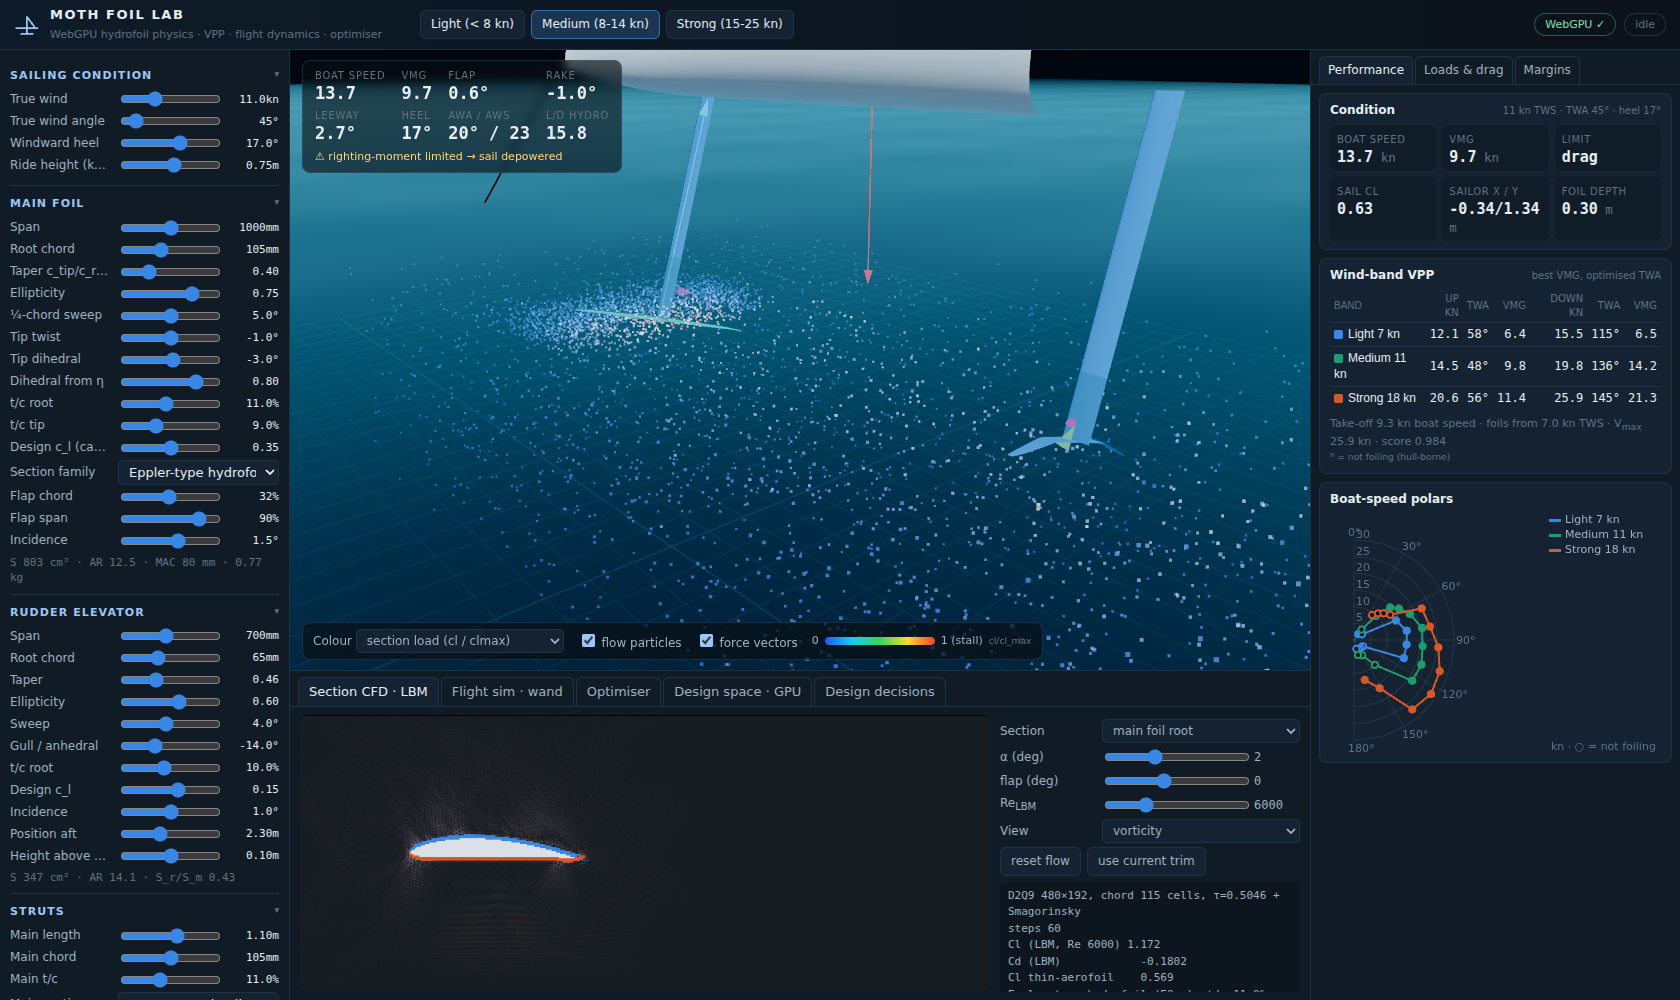
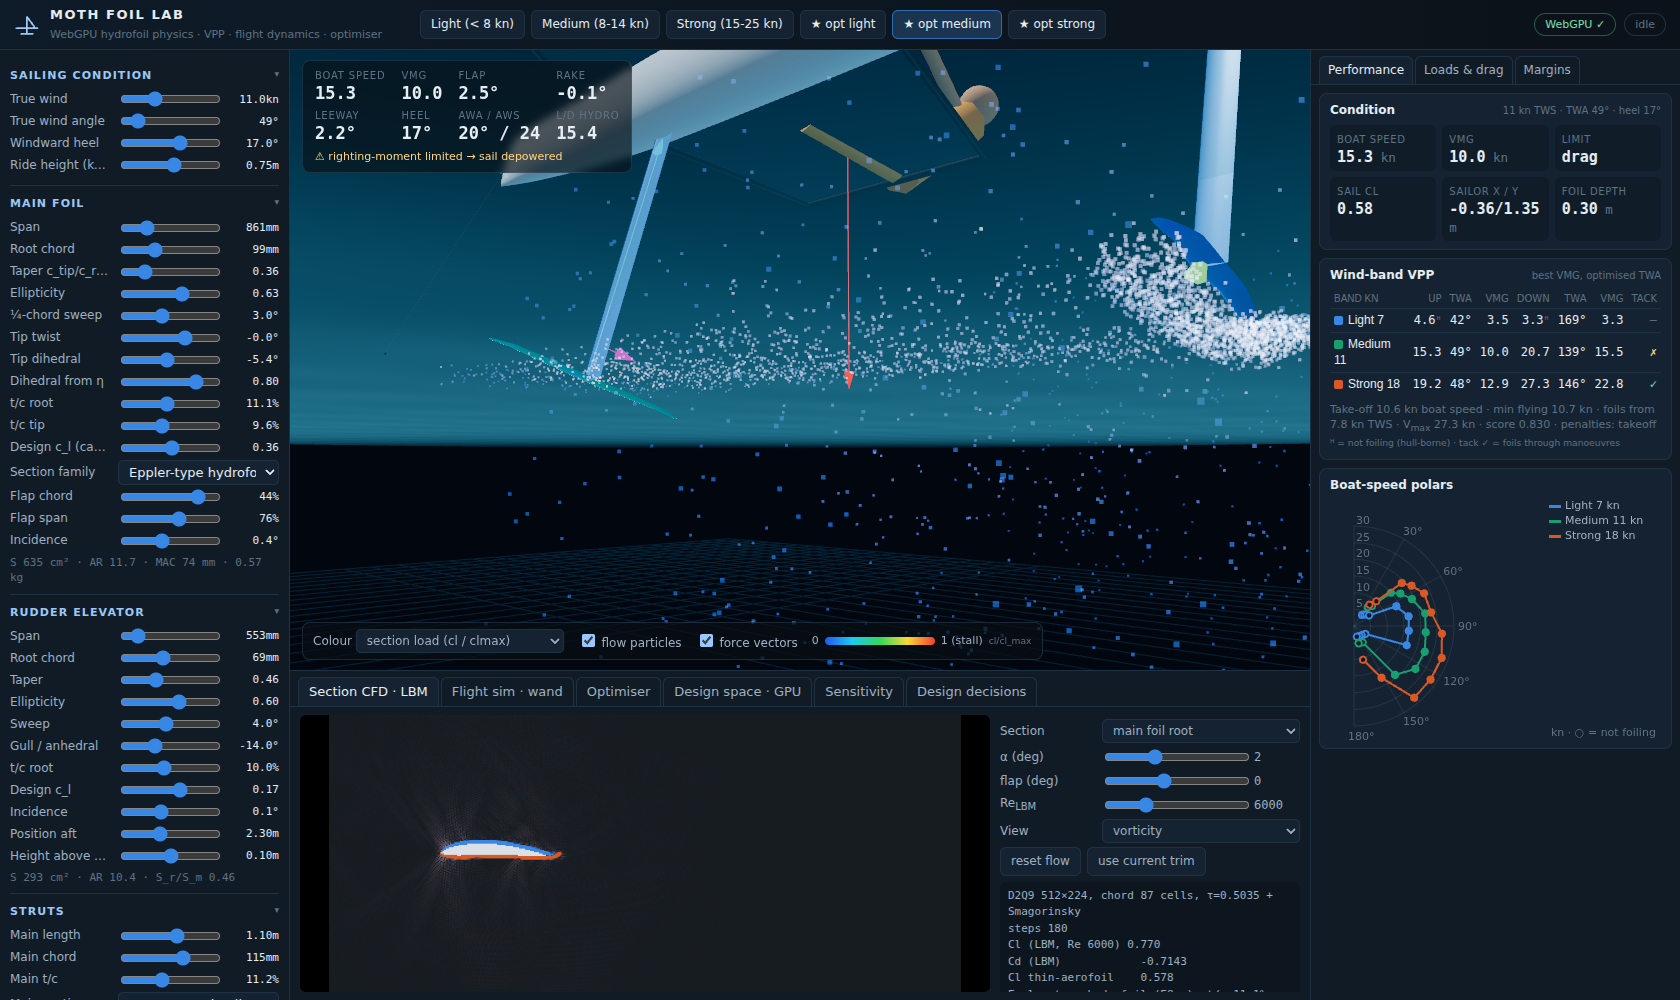
Underwater default camera, finer tracer sheet, faster tracer time on software GPUs; refreshed hero + decisions screenshots
Claude-Session: https://claude.ai/code/session_014NQVz7znVCFCKwRgUQuW6p

diff --git a/src/render/scene.js b/src/render/scene.js
@@ -33,11 +33,11 @@ export class MothScene {
     scene.fog = new THREE.Fog(0x0b1622, 14, 40);
     this.scene = scene;
     const camera = new THREE.PerspectiveCamera(38, container.clientWidth / container.clientHeight, 0.05, 200);
-    camera.position.set(-3.7, 0.95, -2.35);
+    camera.position.set(-3.0, -0.62, -1.9);
     const cam = new URLSearchParams(location.search).get('cam');
     this.camera = camera;
     const controls = new OrbitControls(camera, renderer.domElement);
-    controls.target.set(-1.0, -0.28, 0.05);
+    controls.target.set(-1.05, -0.3, 0.1);
     if (cam) { const v = cam.split(',').map(Number); camera.position.set(v[0], v[1], v[2]); controls.target.set(v[3], v[4], v[5]); }
     controls.enableDamping = true;
     controls.update();
@@ -89,6 +89,8 @@ export class MothScene {
       const swift = /swiftshader/i.test(`${info.architecture} ${info.vendor} ${info.description}`);
       this.software = swift;
       this.flow = new FlowField(renderer, scene, swift ? 5000 : 14000);
+      // software rasteriser runs at a few fps: speed up tracer time so the wake still develops
+      if (swift) this.flow.uTimeScale.value = 0.3;
     }
     this.clock = new THREE.Clock();
     window.addEventListener('resize', () => this.resize());
@@ -215,6 +217,6 @@ export class MothScene {
     const depth = detail.depth ?? 0.4;
     // a sheet of tracers around the foil depth, slightly wider than the span, so tip vortices,
     // downwash and the elevator's passage through the main-foil wake stand out
-    this.flow.setSeedBox(0.25, design.main.span * 0.6, -depth - 0.07, -Math.max(0.03, depth - 0.07), design.elevator.x - 1.2);
+    this.flow.setSeedBox(0.12, design.main.span * 0.58, -depth - 0.035, -Math.max(0.03, depth - 0.035), design.elevator.x - 0.6);
   }
 }

diff --git a/src/render/flowField.js b/src/render/flowField.js
@@ -34,7 +34,7 @@ export class FlowField {
       const r1 = hash(s);
       const r2 = hash(s.add(7919.0));
       const r3 = hash(s.add(104729.0));
-      return vec3(uBox.x.add(r3.mul(0.6)), mix(uSeed.z, uSeed.w, r2), r1.sub(0.5).mul(2).mul(uSeed.y));
+      return vec3(uBox.x.add(r3.mul(0.15)), mix(uSeed.z, uSeed.w, r2), r1.sub(0.5).mul(2).mul(uSeed.y));
     });
 
     this.init = Fn(() => {
@@ -75,8 +75,8 @@ export class FlowField {
     const s = ind.toAttribute();
     const t = s.mul(8.0).clamp(0, 1);
     mat.colorNode = mix(color(0x2c8cff), mix(color(0xffffff), color(0xff5a3c), select(t.greaterThan(0.5), t.sub(0.5).mul(2), float(0))), t.mul(2).clamp(0, 1));
-    mat.opacityNode = float(0.55).add(t.mul(0.45));
-    mat.scaleNode = float(0.009);
+    mat.opacityNode = float(0.30).add(t.mul(0.6));
+    mat.scaleNode = float(0.0065);
     this.sprite = new THREE.Sprite(mat);
     this.sprite.count = count;
     this.sprite.frustumCulled = false;
